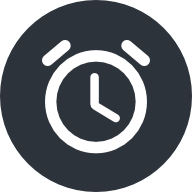
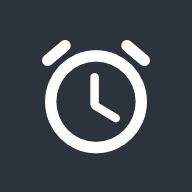
deploy: a5bdff6eb91300101ba3530aa932031a24649802

Changed region(s): [[0.0, 0.0, 1.0, 1.0]]

diff --git a/flutter_service_worker.js b/flutter_service_worker.js
@@ -9,13 +9,13 @@ const RESOURCES = {
 "assets/AssetManifest.json": "62d5b309766803222978f589168a5e54",
 "assets/NOTICES": "1394508397bfadc4462ec4cee496ae78",
 "assets/fonts/MaterialIcons-Regular.otf": "4e6447691c9509f7acdbf8a931a85ca1",
-"index.html": "0b16f8abe38099d51f63c28fffde11a5",
-"/": "0b16f8abe38099d51f63c28fffde11a5",
+"index.html": "ab970dd272a1c01cd6de91ca7428a3ad",
+"/": "ab970dd272a1c01cd6de91ca7428a3ad",
 "version.json": "e8607eabf7b8ccff7e3b4106c45f037e",
 "icons/Icon-maskable-192.png": "8df24db4d5804379f0b9b067e2bf1925",
 "icons/Icon-maskable-512.png": "33d85419b87e7d6d4ef8ab0d33edeb32",
-"icons/Icon-512.png": "7f1a2065a9e9e8f936fcb98fbb82b495",
-"icons/Icon-192.png": "cbada22501a48b7a23278585fafddf87",
+"icons/Icon-512.png": "33d85419b87e7d6d4ef8ab0d33edeb32",
+"icons/Icon-192.png": "8df24db4d5804379f0b9b067e2bf1925",
 "main.dart.js": "7ce43c614c317c9b7bd59af3c449bd60",
 "favicon.png": "3b8d6bb1f104b463144578f66056b64d",
 "manifest.json": "bc7355cb1d86960ea495222597bd69d9",

diff --git a/index.html b/index.html
@@ -40,7 +40,7 @@
          application. For more information, see:
          https://developers.google.com/web/fundamentals/primers/service-workers -->
     <script>
-      var serviceWorkerVersion = '1750778824';
+      var serviceWorkerVersion = '1589737721';
       var scriptLoaded = false;
       function loadMainDartJs() {
         if (scriptLoaded) {
